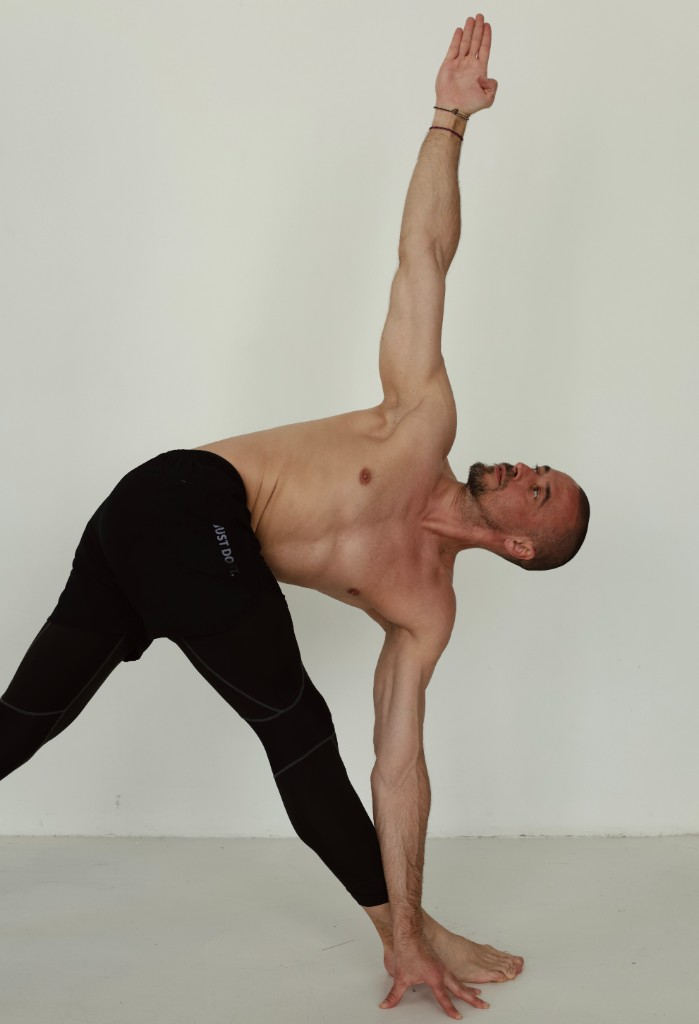
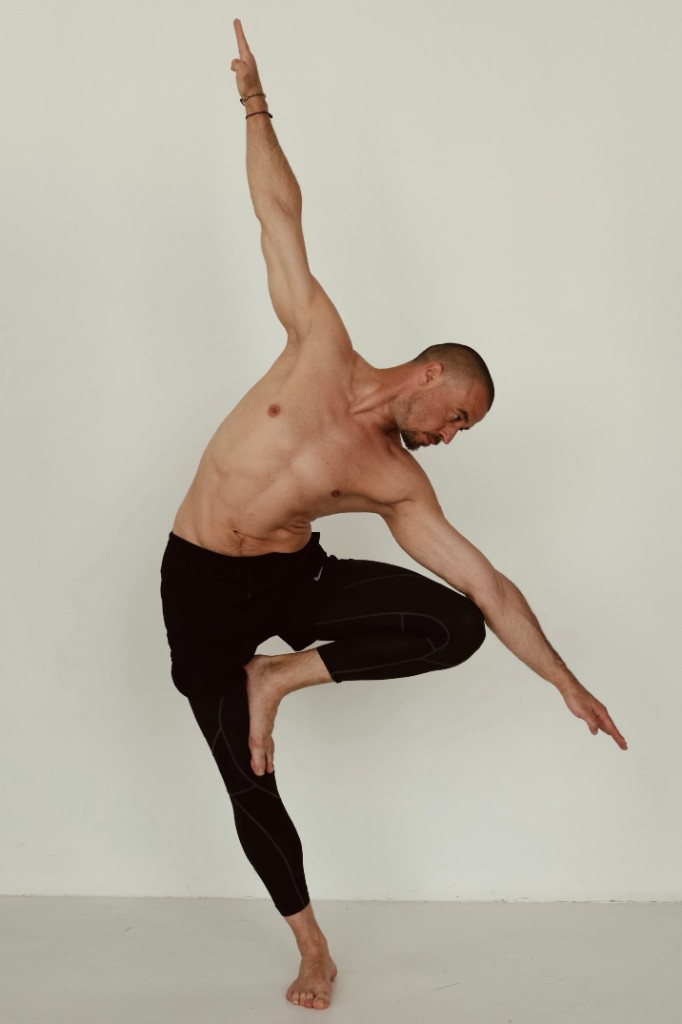
Update yoga landing photos with new author shots.
Replace hero, method, and portrait images; add full practice asset set.

diff --git a/barinov-yoga.html b/barinov-yoga.html
@@ -17,6 +17,7 @@
   <link rel="preconnect" href="https://fonts.googleapis.com">
   <link rel="preconnect" href="https://fonts.gstatic.com" crossorigin>
   <link href="https://fonts.googleapis.com/css2?family=Cormorant+Garamond:ital,wght@0,400;0,500;0,600;1,400&family=Work+Sans:wght@300..600&display=swap" rel="stylesheet">
+  <link rel="preload" href="assets/yoga/hero-practice.png" as="image">
   <style>
     :root,
     [data-theme="light"] {
@@ -532,8 +533,11 @@
     }
 
     .method-aside img {
+      width: 100%;
+      aspect-ratio: 4 / 3;
+      object-fit: cover;
+      object-position: center 30%;
       border-radius: var(--radius-lg);
-      filter: grayscale(0.15);
     }
 
     /* Science */
@@ -1112,7 +1116,7 @@
             <circle cx="100" cy="100" r="30"></circle>
             <path d="M100 10v180M10 100h180M35 35l130 130M165 35L35 165"></path>
           </svg>
-          <img class="hero-photo" src="assets/yoga/hero-practice.png" alt="Илья Баринов в практике йоги" width="900" height="1200" decoding="async">
+          <img class="hero-photo" src="assets/yoga/hero-practice.png" alt="Илья Баринов в позе на опоре — практика баланса" width="900" height="1200" fetchpriority="high" decoding="async">
         </div>
       </div>
     </section>
@@ -1159,7 +1163,7 @@
           </blockquote>
         </div>
         <div class="method-aside" data-reveal>
-          <img src="assets/yoga/practice-balance.png" alt="Практика баланса на курсе" width="800" height="1000" loading="lazy" decoding="async">
+          <img src="assets/yoga/practice-side-plank.png" alt="Илья Баринов — боковая планка, динамика практики" width="1200" height="800" loading="lazy" decoding="async">
           <p style="color: var(--color-text-muted); font-size: var(--text-sm); max-width: 40ch;">
             Курс записан для домашнего формата: вам нужен коврик, немного пространства и готовность заниматься 3–4 раза в неделю по 40–50 минут.
           </p>
@@ -1369,7 +1373,6 @@
           <h2>Илья Баринов</h2>
         </div>
         <div class="author-grid">
-          <!-- TODO: автор заполняет — фото; сейчас assets/yoga/author-portrait.png -->
           <img class="author-photo" src="assets/yoga/author-portrait.png" alt="Илья Баринов — преподаватель йоги" width="800" height="1000" loading="lazy" decoding="async">
           <div class="author-copy" data-reveal>
             <p>Преподаватель йоги, цигун и телесных практик. Ведёт онлайн-группы и интенсивы, работает с вниманием к опоре, дыханию и безопасной механике движения — без «героического» фитнес-подхода и без эзотерических клише.</p>